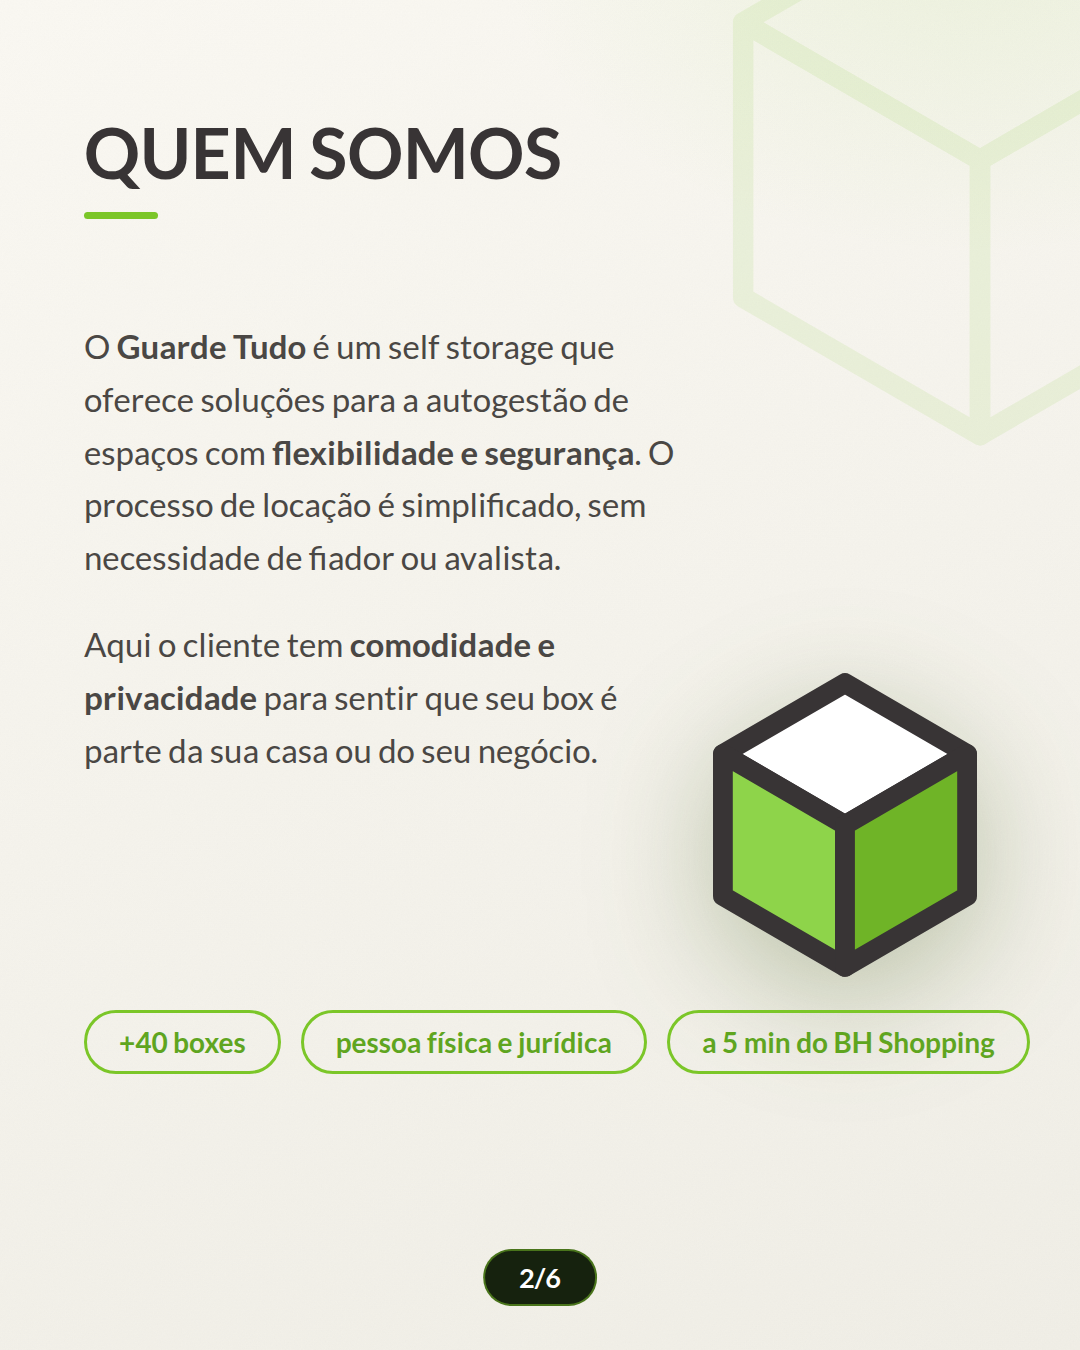
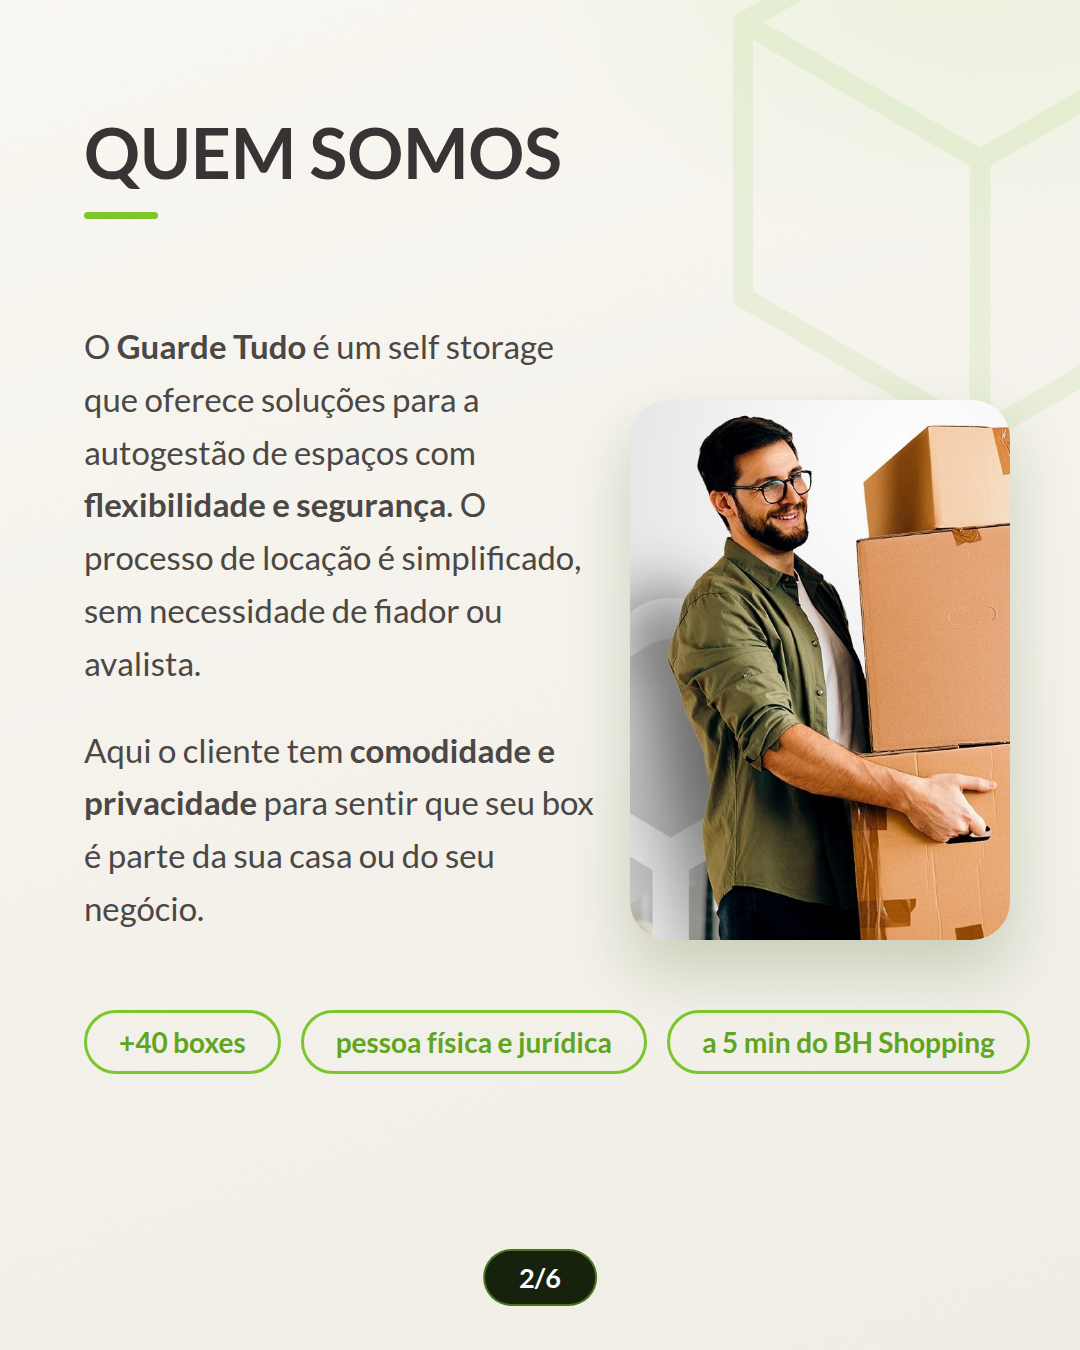
Substitui ilustracoes por fotos reais da marca extraidas do PDF original
- Recorta fotos limpas das artes originais: homem com caixas e casal com
  sofa + caixas guarde.tudo (logo do canto removido via preenchimento)
- Carrossel slide 2: foto do homem com caixas em card arredondado
- Carrossel slide 3: faixa de foto do sofa com selo 'Temos espaco para tudo'
- feed-09 e feed-10: fotos reais no lugar das ilustracoes flat

Claude-Session: https://claude.ai/code/session_011YhxEgKeFoYV2ZHVxe5GC5

Changed region(s): [[0.0611, 0.2489, 0.9472, 0.7467]]

diff --git a/posts/html/feed-10-para-empresas.html b/posts/html/feed-10-para-empresas.html
@@ -56,40 +56,9 @@
       <div style="color:#4A4744;font-size:31px;line-height:1.4;">Sala de reuniões com Wi-Fi</div>
     </div>
       </div>
-      <div style="position:absolute;right:40px;top:410px;width:520px;"><svg viewBox="0 0 640 520" width="100%" xmlns="http://www.w3.org/2000/svg">
-      <ellipse cx="320" cy="486" rx="290" ry="24" fill="rgba(60,90,20,.10)"/>
-      <rect x="150" y="440" width="360" height="18" rx="5" fill="#B98F5C"/>
-      <rect x="160" y="458" width="34" height="22" fill="#A87F4E"/>
-      <rect x="313" y="458" width="34" height="22" fill="#A87F4E"/>
-      <rect x="466" y="458" width="34" height="22" fill="#A87F4E"/>
-      <rect x="168" y="306" width="162" height="134" rx="8" fill="#D9BA8E" stroke="rgba(120,80,30,.25)" stroke-width="2"/><rect x="168" y="306" width="162" height="20" fill="rgba(255,255,255,.22)"/><rect x="236.0" y="306" width="26" height="134" fill="rgba(120,80,30,.18)"/><g transform="translate(225.0,355.0) scale(0.48)" opacity=".75">
-      <g stroke="#6B5335" stroke-width="9" stroke-linejoin="round">
-        <polygon points="50,7 87,28.5 50,50 13,28.5" fill="none"/>
-        <polygon points="13,28.5 50,50 50,93 13,71.5" fill="none"/>
-        <polygon points="50,50 87,28.5 87,71.5 50,93" fill="none"/>
-      </g></g><rect x="196" y="336" width="52" height="30" rx="4" fill="#fff" opacity=".85"/>
-      <rect x="334" y="306" width="162" height="134" rx="8" fill="#E2C79F" stroke="rgba(120,80,30,.25)" stroke-width="2"/><rect x="334" y="306" width="162" height="20" fill="rgba(255,255,255,.22)"/><rect x="402.0" y="306" width="26" height="134" fill="rgba(120,80,30,.18)"/><g transform="translate(391.0,355.0) scale(0.48)" opacity=".75">
-      <g stroke="#6B5335" stroke-width="9" stroke-linejoin="round">
-        <polygon points="50,7 87,28.5 50,50 13,28.5" fill="none"/>
-        <polygon points="13,28.5 50,50 50,93 13,71.5" fill="none"/>
-        <polygon points="50,50 87,28.5 87,71.5 50,93" fill="none"/>
-      </g></g><rect x="362" y="336" width="52" height="30" rx="4" fill="#fff" opacity=".85"/>
-      <rect x="200" y="172" width="150" height="134" rx="8" fill="#D3AF7E" stroke="rgba(120,80,30,.25)" stroke-width="2"/><rect x="200" y="172" width="150" height="20" fill="rgba(255,255,255,.22)"/><rect x="262.0" y="172" width="26" height="134" fill="rgba(120,80,30,.18)"/><g transform="translate(251.0,221.0) scale(0.48)" opacity=".75">
-      <g stroke="#6B5335" stroke-width="9" stroke-linejoin="round">
-        <polygon points="50,7 87,28.5 50,50 13,28.5" fill="none"/>
-        <polygon points="13,28.5 50,50 50,93 13,71.5" fill="none"/>
-        <polygon points="50,50 87,28.5 87,71.5 50,93" fill="none"/>
-      </g></g><rect x="226" y="202" width="52" height="30" rx="4" fill="#fff" opacity=".85"/>
-      <rect x="354" y="200" width="120" height="106" rx="8" fill="#DDBE93" stroke="rgba(120,80,30,.25)" stroke-width="2"/><rect x="354" y="200" width="120" height="20" fill="rgba(255,255,255,.22)"/><rect x="401.0" y="200" width="26" height="106" fill="rgba(120,80,30,.18)"/><rect x="376" y="224" width="52" height="30" rx="4" fill="#fff" opacity=".85"/>
-      <g transform="rotate(-8 555 380)">
-        <rect x="512" y="272" width="150" height="204" rx="14" fill="#fff" stroke="#D8D2C4" stroke-width="3"/>
-        <rect x="562" y="256" width="50" height="30" rx="8" fill="#5FA51F"/>
-        <rect x="532" y="316" width="110" height="10" rx="5" fill="#D8D2C4"/>
-        <rect x="532" y="344" width="110" height="10" rx="5" fill="#D8D2C4"/>
-        <rect x="532" y="372" width="72" height="10" rx="5" fill="#D8D2C4"/>
-        <path d="M532 412 l14 14 24 -28" fill="none" stroke="#7BC628" stroke-width="8" stroke-linecap="round" stroke-linejoin="round"/>
-      </g>
-    </svg></div>
+      <div style="position:absolute;right:56px;top:420px;width:470px;height:500px;border-radius:38px;overflow:hidden;box-shadow:0 26px 54px rgba(60,90,20,.20);">
+        <img src="assets/homem-caixas.jpg" style="width:100%;height:100%;object-fit:cover;object-position:top;">
+      </div>
       <div style="position:absolute;left:84px;right:84px;top:1020px;background:#16220E;color:#fff;border-radius:34px;padding:28px 40px;text-align:center;font-size:30px;">
         Área coberta para carga e descarga &middot; <b style="color:#8ED44A;">a 5 min do BH Shopping</b>
       </div>

diff --git a/posts/html/feed-09-para-voce.html b/posts/html/feed-09-para-voce.html
@@ -56,32 +56,9 @@
       <div style="color:#4A4744;font-size:31px;line-height:1.4;">Presentes de casamento</div>
     </div>
       </div>
-      <div style="position:absolute;right:40px;top:400px;width:520px;"><svg viewBox="0 0 640 520" width="100%" xmlns="http://www.w3.org/2000/svg">
-      <ellipse cx="320" cy="482" rx="285" ry="24" fill="rgba(60,90,20,.10)"/>
-      <rect x="96" y="160" width="9" height="316" rx="4" fill="#8A8A85"/>
-      <rect x="62" y="470" width="78" height="13" rx="6" fill="#8A8A85"/>
-      <path d="M58 96 L152 96 L136 160 L74 160 Z" fill="#F2EEE3" stroke="#D8D2C4" stroke-width="3"/>
-      <rect x="178" y="292" width="258" height="188" rx="8" fill="#D9BA8E" stroke="rgba(120,80,30,.25)" stroke-width="2"/><rect x="178" y="292" width="258" height="20" fill="rgba(255,255,255,.22)"/><rect x="294.0" y="292" width="26" height="188" fill="rgba(120,80,30,.18)"/><g transform="translate(283.0,368.0) scale(0.48)" opacity=".75">
-      <g stroke="#6B5335" stroke-width="9" stroke-linejoin="round">
-        <polygon points="50,7 87,28.5 50,50 13,28.5" fill="none"/>
-        <polygon points="13,28.5 50,50 50,93 13,71.5" fill="none"/>
-        <polygon points="50,50 87,28.5 87,71.5 50,93" fill="none"/>
-      </g></g>
-      <rect x="206" y="166" width="186" height="126" rx="8" fill="#E2C79F" stroke="rgba(120,80,30,.25)" stroke-width="2"/><rect x="206" y="166" width="186" height="20" fill="rgba(255,255,255,.22)"/><rect x="286.0" y="166" width="26" height="126" fill="rgba(120,80,30,.18)"/><g transform="translate(275.0,211.0) scale(0.48)" opacity=".75">
-      <g stroke="#6B5335" stroke-width="9" stroke-linejoin="round">
-        <polygon points="50,7 87,28.5 50,50 13,28.5" fill="none"/>
-        <polygon points="13,28.5 50,50 50,93 13,71.5" fill="none"/>
-        <polygon points="50,50 87,28.5 87,71.5 50,93" fill="none"/>
-      </g></g>
-      <rect x="252" y="98" width="116" height="68" rx="8" fill="#D3AF7E" stroke="rgba(120,80,30,.25)" stroke-width="2"/><rect x="252" y="98" width="116" height="20" fill="rgba(255,255,255,.22)"/><rect x="297.0" y="98" width="26" height="68" fill="rgba(120,80,30,.18)"/>
-      <rect x="462" y="300" width="136" height="180" rx="16" fill="#4A4744"/>
-      <rect x="504" y="272" width="52" height="34" rx="10" fill="none" stroke="#4A4744" stroke-width="10"/>
-      <rect x="462" y="368" width="136" height="12" fill="#7BC628"/>
-      <circle cx="484" cy="480" r="10" fill="#33302E"/><circle cx="576" cy="480" r="10" fill="#33302E"/>
-      <path d="M598 430 q-14 -52 18 -78 q6 44 -4 78 Z" fill="#7BC628"/>
-      <path d="M614 430 q26 -34 8 -66 q-24 30 -22 66 Z" fill="#5FA51F"/>
-      <path d="M588 480 L636 480 L628 432 L596 432 Z" fill="#F2EEE3" stroke="#D8D2C4" stroke-width="3"/>
-    </svg></div>
+      <div style="position:absolute;right:56px;top:420px;width:470px;height:500px;border-radius:38px;overflow:hidden;box-shadow:0 26px 54px rgba(60,90,20,.20);">
+        <img src="assets/casal-sofa.jpg" style="width:100%;height:100%;object-fit:cover;object-position:12% center;">
+      </div>
       <div style="position:absolute;left:84px;right:84px;top:1020px;background:#fff;border-radius:34px;padding:28px 40px;text-align:center;font-size:30px;color:#4A4744;box-shadow:0 18px 40px rgba(60,90,20,.08);">
         Espaços flexíveis para <b>uma pessoa ou para toda a família</b>.
       </div>

diff --git a/posts/carrossel/html/slide-2-quem-somos.html b/posts/carrossel/html/slide-2-quem-somos.html
@@ -23,20 +23,15 @@
         <div style="font-size:70px;font-weight:900;color:#383435;">QUEM SOMOS</div>
         <div style="width:74px;height:7px;border-radius:4px;background:#7BC628;margin-top:18px;"></div>
       </div>
-      <div style="position:absolute;left:84px;top:320px;width:600px;color:#4A4744;font-size:33px;line-height:1.6;">
+      <div style="position:absolute;left:84px;top:320px;width:520px;color:#4A4744;font-size:33px;line-height:1.6;">
         <p>O <b>Guarde Tudo</b> é um self storage que oferece soluções para a
         autogestão de espaços com <b>flexibilidade e segurança</b>. O processo de
         locação é simplificado, sem necessidade de fiador ou avalista.</p>
         <p style="margin-top:34px;">Aqui o cliente tem <b>comodidade e privacidade</b>
         para sentir que seu box é parte da sua casa ou do seu negócio.</p>
       </div>
-      <div style="position:absolute;right:70px;top:660px;filter:drop-shadow(0 30px 60px rgba(60,90,20,.3));">
-        <svg viewBox="0 0 100 100" width="330">
-      <g stroke="#383435" stroke-width="6" stroke-linejoin="round">
-        <polygon points="50,7 87,28.5 50,50 13,28.5" fill="#FFFFFF"/>
-        <polygon points="13,28.5 50,50 50,93 13,71.5" fill="#8ED44A"/>
-        <polygon points="50,50 87,28.5 87,71.5 50,93" fill="#6FB427"/>
-      </g></svg>
+      <div style="position:absolute;right:70px;top:400px;width:380px;height:540px;border-radius:38px;overflow:hidden;box-shadow:0 30px 60px rgba(60,90,20,.22);">
+        <img src="assets/homem-caixas.jpg" style="width:100%;height:100%;object-fit:cover;object-position:top;">
       </div>
       <div style="position:absolute;left:84px;top:1010px;display:flex;gap:20px;">
         <div style="border:3px solid #7BC628;color:#5FA51F;border-radius:44px;padding:12px 32px;font-size:28px;font-weight:700;">+40 boxes</div>

diff --git a/posts/carrossel/html/slide-3-o-que-guardar.html b/posts/carrossel/html/slide-3-o-que-guardar.html
@@ -50,8 +50,9 @@
           <div style="margin-top:18px;font-size:29px;font-weight:900;color:#383435;">Coleções</div>
         </div>
       </div>
-      <div style="position:absolute;left:84px;right:84px;top:1030px;background:#16220E;color:#fff;border-radius:34px;padding:30px 40px;text-align:center;font-size:31px;">
-        <b style="color:#8ED44A;">Temos espaço para tudo!</b> &nbsp;Boxes de 4 a 1.000 m²
+      <div style="position:absolute;left:84px;right:84px;top:950px;height:260px;border-radius:38px;overflow:hidden;box-shadow:0 26px 54px rgba(60,90,20,.20);">
+        <img src="assets/casal-sofa.jpg" style="width:100%;height:100%;object-fit:cover;object-position:center 40%;">
+        <div style="position:absolute;right:22px;top:20px;background:#16220E;color:#fff;border-radius:40px;padding:12px 30px;font-size:25px;"><b style="color:#8ED44A;">Temos espaço para tudo!</b> Boxes de 4 a 1.000 m²</div>
       </div>
       <div style="position:absolute;left:50%;transform:translateX(-50%);bottom:44px;background:#16220E;color:#fff;border:2px solid rgba(123,198,40,.5);border-radius:40px;padding:10px 34px;font-size:27px;font-weight:900;">3/6</div>
     </div></body></html>

diff --git a/tools/gerar_artes.py b/tools/gerar_artes.py
@@ -477,15 +477,15 @@ def carrossel_02():
         <div style="font-size:70px;font-weight:900;color:{GRAFITE};">QUEM SOMOS</div>
         {risco()}
       </div>
-      <div style="position:absolute;left:84px;top:320px;width:600px;color:#4A4744;font-size:33px;line-height:1.6;">
+      <div style="position:absolute;left:84px;top:320px;width:520px;color:#4A4744;font-size:33px;line-height:1.6;">
         <p>O <b>Guarde Tudo</b> é um self storage que oferece soluções para a
         autogestão de espaços com <b>flexibilidade e segurança</b>. O processo de
         locação é simplificado, sem necessidade de fiador ou avalista.</p>
         <p style="margin-top:34px;">Aqui o cliente tem <b>comodidade e privacidade</b>
         para sentir que seu box é parte da sua casa ou do seu negócio.</p>
       </div>
-      <div style="position:absolute;right:70px;top:660px;filter:drop-shadow(0 30px 60px rgba(60,90,20,.3));">
-        <svg viewBox="0 0 100 100" width="330">{cubo_colorido(sw=6)}</svg>
+      <div style="position:absolute;right:70px;top:400px;width:380px;height:540px;border-radius:38px;overflow:hidden;box-shadow:0 30px 60px rgba(60,90,20,.22);">
+        <img src="assets/homem-caixas.jpg" style="width:100%;height:100%;object-fit:cover;object-position:top;">
       </div>
       <div style="position:absolute;left:84px;top:1010px;display:flex;gap:20px;">
         <div style="border:3px solid {VERDE};color:{VERDE_ESCURO};border-radius:44px;padding:12px 32px;font-size:28px;font-weight:700;">+40 boxes</div>
@@ -525,8 +525,9 @@ def carrossel_03():
         {obj("caixa", "Estoques")}
         {obj("grade", "Coleções")}
       </div>
-      <div style="position:absolute;left:84px;right:84px;top:1030px;background:{VERDE_NOITE};color:#fff;border-radius:34px;padding:30px 40px;text-align:center;font-size:31px;">
-        <b style="color:{VERDE_CLARO};">Temos espaço para tudo!</b> &nbsp;Boxes de 4 a 1.000 m²
+      <div style="position:absolute;left:84px;right:84px;top:950px;height:260px;border-radius:38px;overflow:hidden;box-shadow:0 26px 54px rgba(60,90,20,.20);">
+        <img src="assets/casal-sofa.jpg" style="width:100%;height:100%;object-fit:cover;object-position:center 40%;">
+        <div style="position:absolute;right:22px;top:20px;background:{VERDE_NOITE};color:#fff;border-radius:40px;padding:12px 30px;font-size:25px;"><b style="color:{VERDE_CLARO};">Temos espaço para tudo!</b> Boxes de 4 a 1.000 m²</div>
       </div>
       {pagina_pill(3)}
     </div>'''
@@ -773,7 +774,9 @@ def ed_03():  # para você
         {check_claro("Brinquedos e coleções")}
         {check_claro("Presentes de casamento")}
       </div>
-      <div style="position:absolute;right:40px;top:400px;width:520px;">{ilustracao_para_voce()}</div>
+      <div style="position:absolute;right:56px;top:420px;width:470px;height:500px;border-radius:38px;overflow:hidden;box-shadow:0 26px 54px rgba(60,90,20,.20);">
+        <img src="assets/casal-sofa.jpg" style="width:100%;height:100%;object-fit:cover;object-position:12% center;">
+      </div>
       <div style="position:absolute;left:84px;right:84px;top:1020px;background:#fff;border-radius:34px;padding:28px 40px;text-align:center;font-size:30px;color:#4A4744;box-shadow:0 18px 40px rgba(60,90,20,.08);">
         Espaços flexíveis para <b>uma pessoa ou para toda a família</b>.
       </div>
@@ -798,7 +801,9 @@ def ed_04():  # para empresas
         {check_claro("Sigilo e segurança garantidos")}
         {check_claro("Sala de reuniões com Wi-Fi")}
       </div>
-      <div style="position:absolute;right:40px;top:410px;width:520px;">{ilustracao_empresa()}</div>
+      <div style="position:absolute;right:56px;top:420px;width:470px;height:500px;border-radius:38px;overflow:hidden;box-shadow:0 26px 54px rgba(60,90,20,.20);">
+        <img src="assets/homem-caixas.jpg" style="width:100%;height:100%;object-fit:cover;object-position:top;">
+      </div>
       <div style="position:absolute;left:84px;right:84px;top:1020px;background:{VERDE_NOITE};color:#fff;border-radius:34px;padding:28px 40px;text-align:center;font-size:30px;">
         Área coberta para carga e descarga &middot; <b style="color:{VERDE_CLARO};">a 5 min do BH Shopping</b>
       </div>
